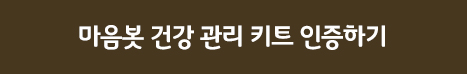
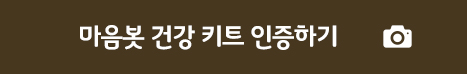
PC 메인 건강키트로 수정

Changed region(s): [[0.1499, 0.3243, 0.8994, 0.6757]]

diff --git a/css/main.css b/css/main.css
@@ -88,7 +88,8 @@ body {
 }
 .section1-wrap {
 	/* position: relative; */
-	height: 966px;
+/*	height: 966px;*/
+	height: 834px;
 	background: #e9e1d6;
 }
 .section1-wrap .inner {
@@ -102,9 +103,10 @@ body {
 }
 .section1-wrap .inner .title {
 	position: relative;
-	background: url(../images/section1_title.png);
+	background: url(../images/section1_title.png) 0 0 no-repeat;
 	width: 779px;
-	height: 225px;
+/*	height: 225px;*/
+	height: 160px;
 	margin: 0 auto;
 	z-index: 2;
 	/* margin-top: 105px; */
